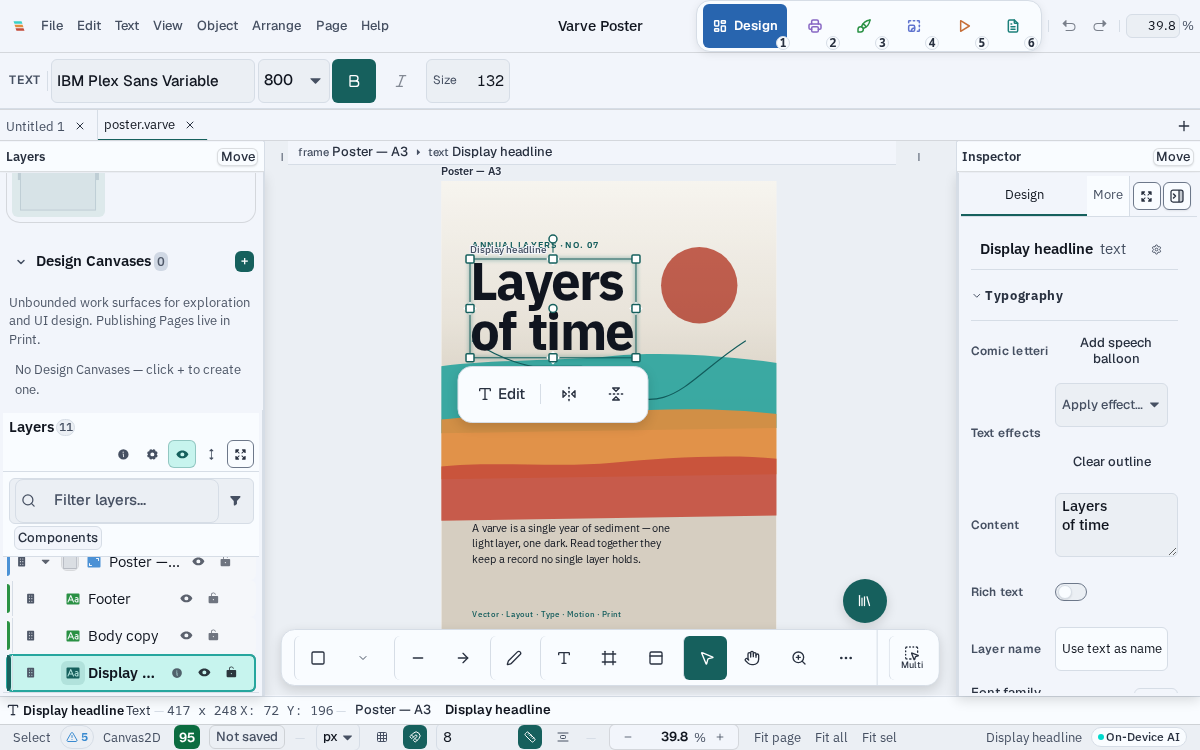
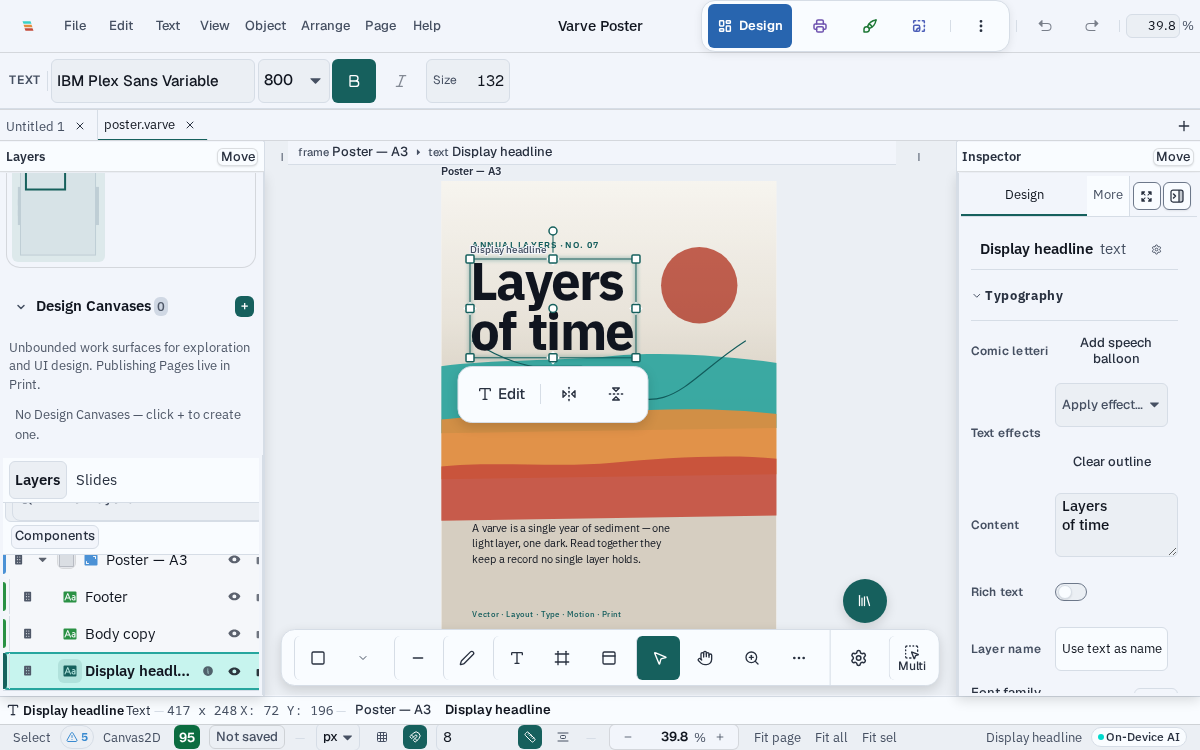
docs(marketing): show tablet editing workspace

diff --git a/docs/audits/tablet-mode-2026-09-29.md b/docs/audits/tablet-mode-2026-09-29.md
@@ -336,21 +336,22 @@ and are not presented as fresh validation of the current checkout.
   with no layer violations, while reporting 14 existing cycles and the shared
   hub import warnings.
 - Latest recheck after the compact-width correction: `pnpm verify:plan`
-  selected 735 shared-worktree files and again reported `FULL-SUITE ESCALATION:
+  selected 755 shared-worktree files and again reported `FULL-SUITE ESCALATION:
   YES`; the focused overflow and workspace-tab suites pass 21/21, and
-  `pnpm audit:docs` passes at 1,121 documents, 729 links, and 178 ADRs. The
+  `pnpm audit:docs` passes at 1,121 documents, 732 links, and 178 ADRs. A fresh
+  `pnpm audit:emoji` passes across 5,197 files. The
   spacing audit now reports only the unrelated legacy
   `Presentation/presentationNavigator.css` declaration; the earlier
   ProductShowcase/ScreenshotImage drift has been documented and cleared.
-- Final focused browser run: **6 passed, 1 failed** under the heavy-task lease
-  in Chromium 151.0.7922.34. The 899×600 and 1095×700 landscape boundaries,
+- Final focused browser run: **6 passed, 1 transient setup failure**, followed
+  by a passing retry of that exact case, under the heavy-task lease in
+  Chromium 151.0.7922.34. The 899×600 and 1095×700 landscape boundaries,
   portrait compaction at 600×960 and 800×1280, and the keyboardless modifier
-  popover after orientation change passed. The remaining 600×960 matrix case
-  failed in shared `navigateToEditor` setup before tablet assertions: the
-  helper timed out waiting for a visible canvas and its recovery screenshot
-  still showed Home. A retry of that exact case remains required. Captures for
-  the passed viewport cases are in
-  `docs/screenshots/tablet-mode-2026-09-29/topbar-review-final4/`.
+  popover after orientation change all pass. The first 600×960 attempt timed
+  out in shared `navigateToEditor` before tablet assertions; the same case then
+  passed on retry and produced a valid capture. Final screenshots are in
+  `docs/screenshots/tablet-mode-2026-09-29/topbar-review-final4/` and
+  `topbar-review-retry/`.
 - Visual inspection of the final 899×600, 1095×700, and 800×1280 captures
   confirms the title/menu collision is gone, the active workspace is named,
   number badges are absent, and portrait history controls align on the second
@@ -360,23 +361,46 @@ and are not presented as fresh validation of the current checkout.
   its screenshots remain useful as **before** evidence only. A later queue
   attempt timed out without launching. The current run supplies the first
   post-fix browser evidence.
+- The reviewed tablet workspace and editing-controls scenes were recaptured
+  from committed `master` `576b7e4ff82c1aff01bc2daaf1b3c15b14002dac` and
+  promoted to the website screenshot manifest. Both entries now record that
+  commit in `lastValidatedAgainst`; the manifest and product/website copies
+  resolve to the reviewed captures.
 - Current shared-tree failures outside these top-bar files: editor typecheck in
   `CurveEditor.test.tsx` and `exportService.test.ts`; `audit:sizing`,
   `audit:radius`, and interface-sizing drift in
-  `Presentation/presentationNavigator.css`; two emoji fixture literals in
-  codegen; the one 600×960 matrix attempt failed in shared navigation setup
-  (canvas not visible; screenshot remained on Home); and eight pre-existing
+  `Presentation/presentationNavigator.css`; one initial 600×960 navigation
+  setup timeout (its exact retry
+  passed); and eight pre-existing
   editor CSS Stylelint findings. `pnpm typecheck:e2e` now passes. The inspector
   CSS audit is clean with its non-blocking debt inventory warnings.
+
+### Final tablet top-bar and website verification
+
+- Post-commit product capture command:
+  `pnpm screenshots:product -- --scenes tablet-workspace,tablet-controls --review-dir /tmp/varve-tablet-topbar-postcommit-2026-09-29 --sync-reviewed`.
+  The reviewed 1200×750 workspace capture shows the named Design pill, a
+  coherent menu/workspace/history rhythm, the tablet Inspector beside the
+  canvas, and a keyboardless text-edit row. The 800×600 controls detail shows
+  visible tool modifiers, duplicate, alignment, and layer-order controls.
+- Visual inspection of both promoted PNGs passed. The browser evidence is
+  Linux Chromium emulation; it does not certify physical tablet hardware.
+- `pnpm --filter @varve/website exec astro check` passed: 171 files, zero
+  errors, warnings, or hints. `pnpm build:website` and
+  `pnpm build:website:pages` both passed and each built 114 routes.
+- The screenshot manifest records the implementation commit above as
+  `lastValidatedAgainst` for both tablet scenes. Website showcase and image
+  component spacing exceptions are documented inline for the scoped spacing
+  audit.
 
 ## Agent Validation Report
 
 ```text
 Changed scope: editor pointer ownership/transactions, tablet layout/settings, keyboard inset and Back routing; architecture/user docs, marketing pages and screenshot manifest/assets; focused E2E and unit regressions.
-Validation plan: latest `pnpm verify:plan` selected 701 shared-worktree files, Tier 0–4 affected closure, and FULL-SUITE ESCALATION: YES (workspace/toolchain/validation-infrastructure and high-risk framework/runtime dependency).
-Commands actually run: `pnpm verify:plan` (488, 493, 504, then 481 changed files); `pnpm verify:affected`; `pnpm verify:triage`; the stated-reason `pnpm verify:full` (run twice); focused Vitest (13 files, 224 tests); `pnpm typecheck:e2e`; tablet viewport/theme/gesture and editing-subflow E2E under heavy-lease; save/offline/file-import/panel E2E under heavy-lease; production workload `vector-500` single-drag (100 samples); attempted `vector-5k` production workload (build blocked); `pnpm build:website`; `pnpm build:website:pages`; website showcase visual E2E; `pnpm --filter @varve/website typecheck`; focused interaction Vitest (6 files/152 tests plus 2 transaction files/22 tests); commit checkpoint (5 files/144 tests); `pnpm typecheck:e2e` (failed on concurrent raster-magic-wand coordinate narrowing); architecture `--ci` audit; `pnpm audit:docs`; `pnpm audit:emoji`; `pnpm audit:tokens`; `pnpm audit:radius`; `pnpm audit:spacing`; `pnpm audit:sizing`; `pnpm audit:inspector-css`; `pnpm lint:css`.
-Passed: 152 focused interaction tests, 22 transaction/history tests, and 144 commit-hook tests; 224 earlier focused unit tests; 13/13 viewport matrix before the final typography correction; 2/2 theme/reduced-motion screenshots; corrected focused pointer assertion; nested Back/gesture/pointer checks; 10/10 keyboardless editing subflows; 4/4 save/offline cases; 1/1 revoked-permission retry; standalone E2E typecheck; both website builds; focused product-showcase visual; website Astro diagnostics; docs, emoji, token, radius, spacing, final sizing, inspector-CSS, CSS lint, and health audits.
-Failed or blocked: post-commit `pnpm typecheck:e2e` hit possibly-undefined coordinates in concurrently edited `tests/e2e/canvas/raster-magic-wand.spec.ts:243`; `verify:affected` required full-gate escalation; triage stopped on shared generated-JSON formatting; latest full gate reported shared formatting, 15 cycles including a new engine cycle, 73 unstable modules, hub import budgets over, and unrelated editor type errors in `CurveEditor.test.tsx`, Magic Wand defaults, and `artworkSampling.ts`; `vector-5k` performance build and final visual rerun stopped on the shared missing engine export; JPEG import screenshot baseline size mismatch; shared Logo/Code E2E update-depth error.
+Validation plan: latest `pnpm verify:plan` selected 755 shared-worktree files, Tier 0–4 affected closure, and FULL-SUITE ESCALATION: YES (workspace/toolchain/validation-infrastructure and high-risk framework/runtime dependency).
+Commands actually run: `pnpm verify:plan` (488, 493, 504, 481, 701, 748, then 755 shared-worktree files); `pnpm verify:affected`; `pnpm verify:triage`; the stated-reason `pnpm verify:full` (run twice); focused Vitest (13 files, 224 tests); `pnpm typecheck:e2e`; tablet viewport/theme/gesture and editing-subflow E2E under heavy-lease; save/offline/file-import/panel E2E under heavy-lease; production workload `vector-500` single-drag (100 samples); attempted `vector-5k` production workload (build blocked); `pnpm screenshots:product -- --scenes tablet-workspace,tablet-controls --review-dir /tmp/varve-tablet-topbar-postcommit-2026-09-29 --sync-reviewed`; `pnpm --filter @varve/website exec astro check`; `pnpm build:website`; `pnpm build:website:pages`; website showcase visual E2E; `pnpm --filter @varve/website typecheck`; focused interaction Vitest (6 files/152 tests plus 2 transaction files/22 tests); commit checkpoint (5 files/144 tests); `pnpm typecheck:e2e` (failed on concurrent raster-magic-wand coordinate narrowing); architecture `--ci` audit; `pnpm audit:docs`; `pnpm audit:emoji`; `pnpm audit:tokens`; `pnpm audit:radius`; `pnpm audit:spacing`; `pnpm audit:sizing`; `pnpm audit:inspector-css`; `pnpm lint:css`.
+Passed: 152 focused interaction tests, 22 transaction/history tests, and 144 commit-hook tests; 224 earlier focused unit tests; 13/13 viewport matrix before the final typography correction; 2/2 theme/reduced-motion screenshots; corrected focused pointer assertion; nested Back/gesture/pointer checks; 10/10 keyboardless editing subflows; 4/4 save/offline cases; 1/1 revoked-permission retry; standalone E2E typecheck on the final retry; focused top-bar E2E (6/7 on first run, with the sole setup timeout passing on exact retry); 2/2 reviewed post-commit tablet captures; website Astro diagnostics (171 files, zero diagnostics); both website builds (114 routes each); focused product-showcase visual; docs, emoji, token, inspector-CSS, architecture, and health audits.
+Failed or blocked: an earlier `pnpm typecheck:e2e` invocation hit possibly-undefined coordinates in concurrently edited `tests/e2e/canvas/raster-magic-wand.spec.ts:243` and passed on a later standalone retry; `audit:radius`, `audit:sizing`, interface-sizing, and `audit:spacing` report unrelated legacy findings in `Presentation/presentationNavigator.css`; `lint:css` reports eight existing editor CSS findings; `verify:affected` required full-gate escalation; triage stopped on shared generated-JSON formatting; latest full gate reported shared formatting, 15 cycles including a new engine cycle, 73 unstable modules, hub import budgets over, and unrelated editor type errors in `CurveEditor.test.tsx`, Magic Wand defaults, and `artworkSampling.ts`; `vector-5k` performance build and final visual rerun stopped on the shared missing engine export; JPEG import screenshot baseline size mismatch; shared Logo/Code E2E update-depth error.
 Skipped as unrelated or unavailable: physical Lenovo Duet/USI, physical Windows-touch, Android and iPadOS checks; installed-PWA file launch and physical OSK/IME; actual browser zoom versus equivalent CSS viewport; offline reload/reopen and interrupted recovery; constrained 4 GB and reference 8 GB hardware profiles; full poster save/reopen/export fidelity; 5k performance profile, React commit counts, Long Task counts, and a clean matched before/after performance comparison.
 Escalations: full repository gate required by planner; executed with the stated tablet integration and workspace/toolchain/framework reason.
 Full suite run: yes (escalated gate attempted; blocked before completion by shared formatter/architecture/typecheck failures).

diff --git a/docs/audits/workspace-switcher-design-review-2026-09-29.md b/docs/audits/workspace-switcher-design-review-2026-09-29.md
@@ -377,3 +377,25 @@ Skipped as unrelated: Rust/cargo workspace, native desktop matrices,
 Escalations: none.
 Full suite run: no. Reason: no workspace/toolchain/test-runner/schema change.
 ```
+
+## Tablet top-bar integration follow-up
+
+The tablet review extended beyond the workspace pills to the full app bar: the
+menu rail, active workspace, Undo/Redo, document name, and touch controls now
+share a measured 44px target rhythm. Portrait tablets use a menu row followed
+by an aligned workspace/history row. In compact landscape, the duplicate
+document title yields before it can touch either the menu rail or workspace
+dock; the document tab keeps the title available. This is documented in
+`docs/architecture/responsive-workspace.md`.
+
+Final browser verification on committed `master`
+`576b7e4ff82c1aff01bc2daaf1b3c15b14002dac` covered 899×600 and 1095×700
+landscape, 600×960 and 800×1280 portrait, and a keyboardless controls popover
+through orientation change. Six cases passed on the first run; the remaining
+600×960 case timed out during shared editor navigation setup before reaching
+its assertions, then passed on an exact retry. The reviewed product captures
+are [tablet workspace](../screenshots/product/tablet-workspace-light.png) and
+[tablet editing controls](../screenshots/product/tablet-controls-detail-light.png).
+They show a cohesive switcher/menu/history bar and touch-sized modifier,
+selection, alignment, and layer-order controls. This is Linux Chromium browser
+emulation, not physical tablet certification.
